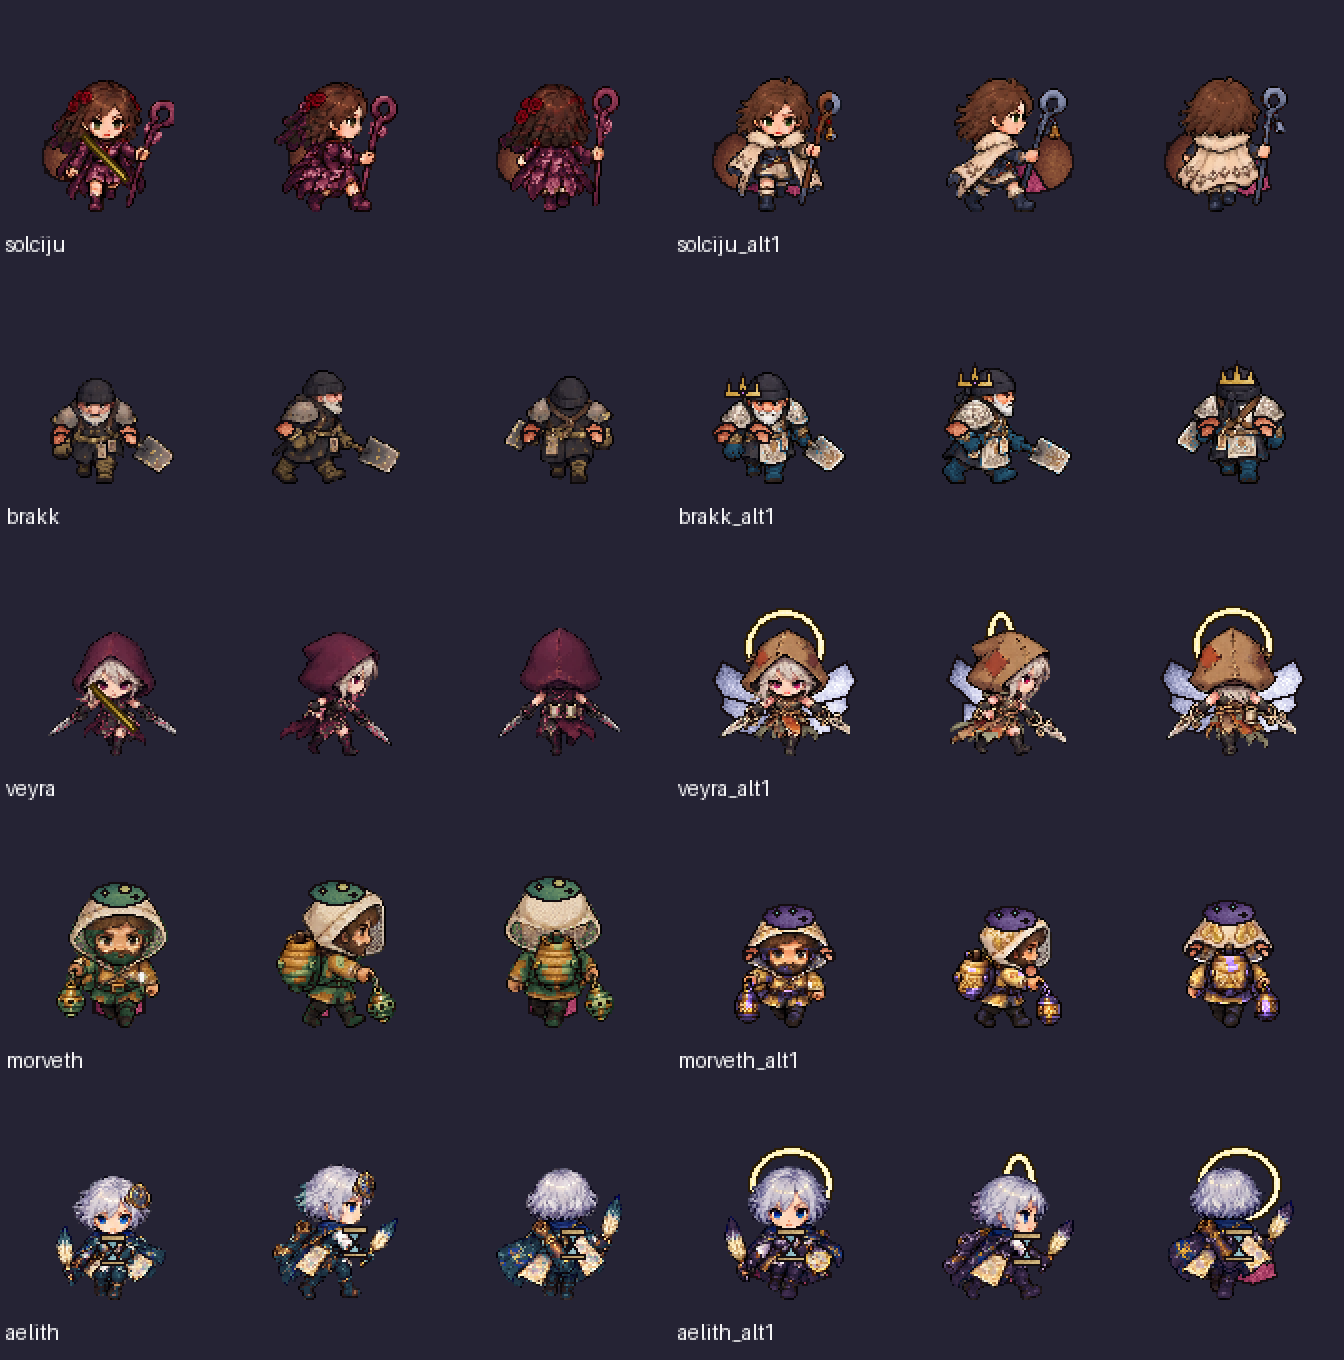
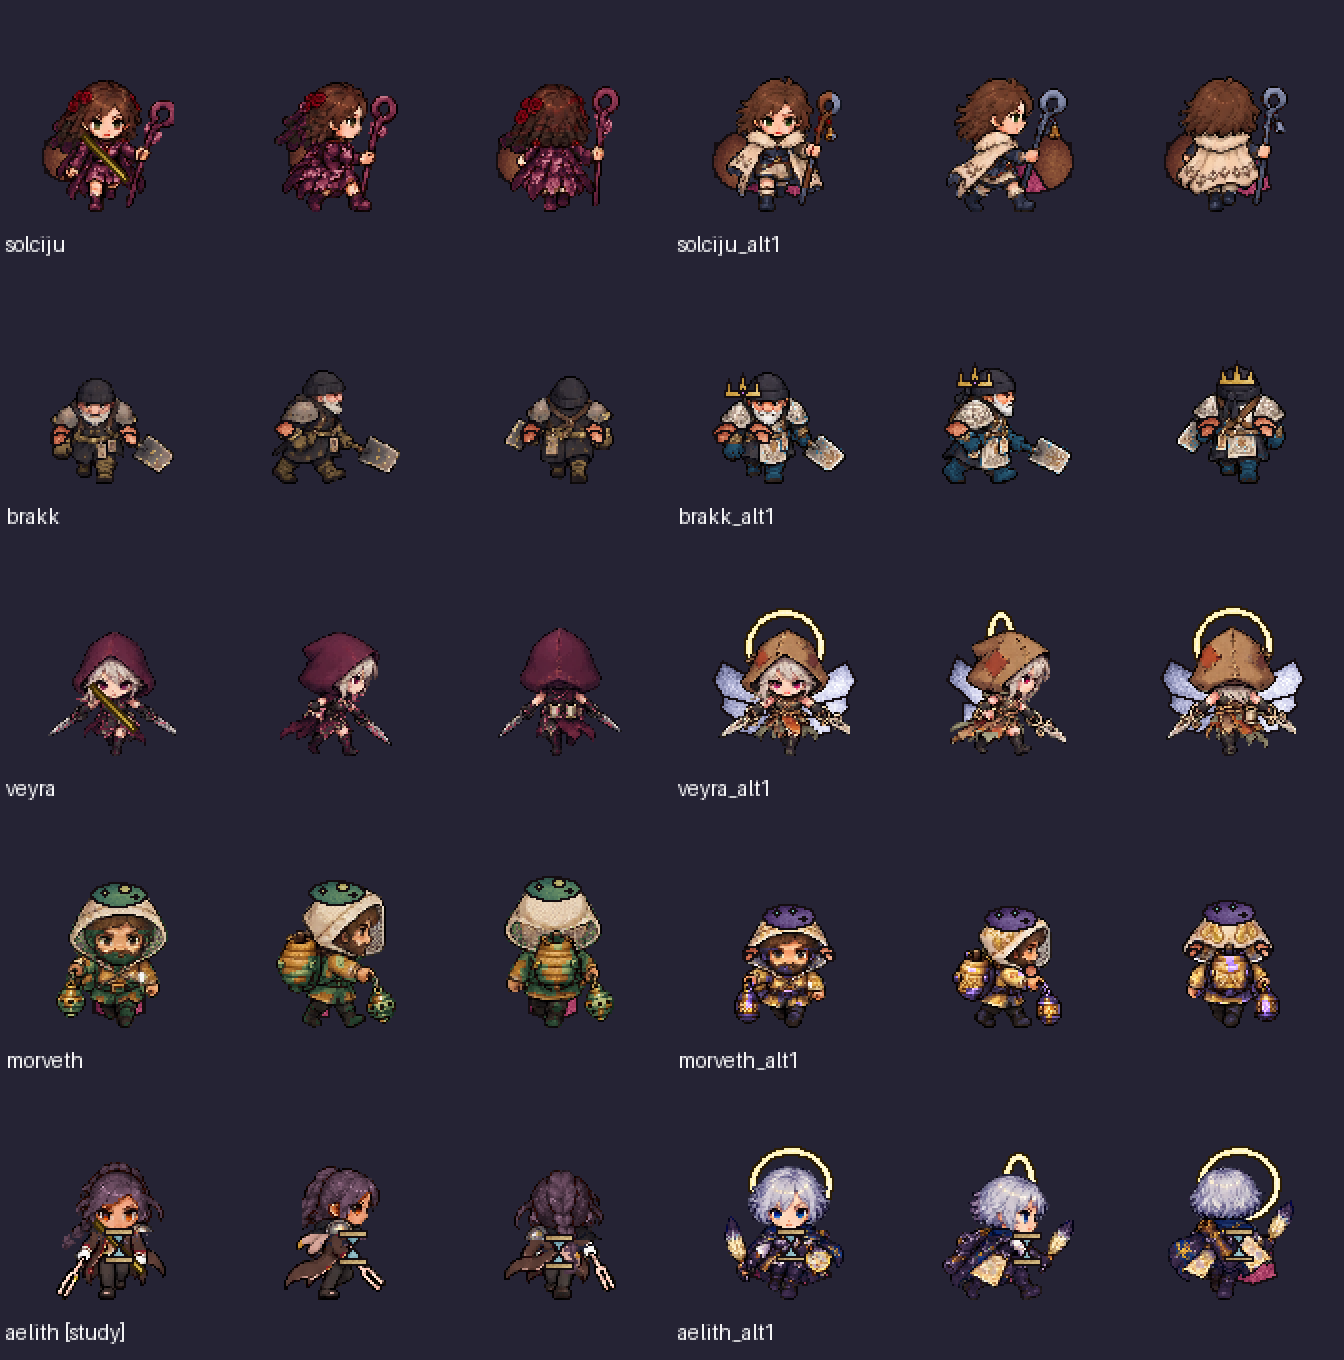
chore(workshop): regenerate ten draft previews with revised Aelith study

Changed region(s): [[0.0312, 0.8338, 0.125, 0.9882], [0.375, 0.8338, 0.4688, 0.9574], [0.1875, 0.8338, 0.3125, 0.9574]]

diff --git a/tools/factory/produce-quality-five.py b/tools/factory/produce-quality-five.py
@@ -9,17 +9,20 @@ OUT=ROOT/'docs/production/quality-five'
 OUT.mkdir(parents=True,exist_ok=True)
 subprocess.run([sys.executable,'tools/art/painter/forge.py','check','quality_wine_cask','quality_fungal_cap','quality_hourglass'],cwd=ROOT,check=True)
 rows=[]
+(OUT/'manifest.json').write_text(json.dumps({'status':'RUNNING_NOT_APPROVED','candidates':[]})+'\n')
+def recipe(key):
+ return 'aelith_study' if key=='aelith' else key
 for champion in IDS:
  for key in [champion,champion+'_alt1']:
-  subprocess.run(['node','tools/factory/cli.js','paint',key],cwd=ROOT,check=True)
-  atlas=ROOT/'tools/art/painter/out'/key/'atlas.png'
-  rows.append({'id':key,'atlasSha256':hashlib.sha256(atlas.read_bytes()).hexdigest(),'numericStyle':'PASS','visualStatus':'PENDING_REVIEW','installed':False})
+  subprocess.run(['node','tools/factory/cli.js','paint',recipe(key)],cwd=ROOT,check=True)
+  atlas=ROOT/'tools/art/painter/out'/recipe(key)/'atlas.png'
+  rows.append({'id':key,'recipe':recipe(key),'atlasSha256':hashlib.sha256(atlas.read_bytes()).hexdigest(),'numericStyle':'PASS','visualStatus':'PENDING_REVIEW','installed':False})
 canvas=Image.new('RGB',(672,680),'#252334');draw=ImageDraw.Draw(canvas)
 for row,k in enumerate(IDS):
  for variant,key in enumerate([k,k+'_alt1']):
-  im=Image.open(ROOT/'tools/art/painter/out'/key/'atlas.png').convert('RGBA')
+  im=Image.open(ROOT/'tools/art/painter/out'/recipe(key)/'atlas.png').convert('RGBA')
   for col in range(3):
    frame=im.crop((0,112*col,112,112*(col+1)));canvas.paste(frame,((variant*3+col)*112,row*136),frame)
-  draw.text((variant*336+3,row*136+116),key,fill='white')
+  draw.text((variant*336+3,row*136+116),key+(' [study]' if key=='aelith' else ''),fill='white')
 canvas.resize((1344,1360),Image.Resampling.NEAREST).save(OUT/'candidates.png')
 (OUT/'manifest.json').write_text(json.dumps({'status':'DRAFT_NOT_PLAYABLE','candidates':rows},indent=2)+'\n')
